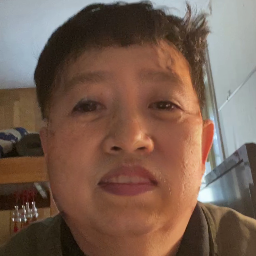
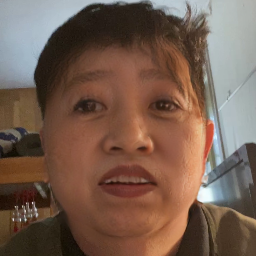
0.46：换脸网整条换到 hyperswap_1c_256——同一张计算图换一份权重
速度一分没变（结构逐格相同：673 节点／295 initializer／算子直方图／形状指纹全等，
只有权重指纹不同；同进程背靠背交替 20 次实测 1c÷1a＝0.974，落在本机负载噪声里）。
换来的是画质：PC 八帧 ↔源 0.732→0.794（已经高过当年 inswapper_128 的 0.779，而算力只有它一半），
高频持平 0.839↔0.836；肉眼那一关是表情——原片张嘴，1c 露牙，1a 一路抿嘴。

1a 与 1c 字节数完全相同（402742682），只比长度分不开这两份，下载那步改钉 sha256。
PC 标答（ci/fsx_fixtures）整份按 1c 重出——不重出就是拿 1c 的输出去比 1a 的答案，第①层必然 FAIL。
RECIPE 随网名变⇒手机上「点核对只比版本」那条会判盘上那份是旧配方，重下一次 ~566 MB 归档。

diff --git a/app/SourcesSwap/SwapClip.swift b/app/SourcesSwap/SwapClip.swift
@@ -171,7 +171,7 @@ final class SwapSource {
 /// → 逐帧 对齐→256 前向→贴回（一帧里有几张目标脸就换几张）→ 编码器写新片。
 /// 每一步的单价、身份余弦、足迹水位全部进流水；跑完存相册，成功才删沙盒那份。
 ///
-/// 这一条链路只有两张网（脸向量网＋hyperswap_1a_256），
+/// 这一条链路只有两张网（脸向量网＋hyperswap_1c_256），
 /// 逐帧的钱全在那一张 30 GMAC 的换脸网上，其余每一步都是几十字节的算术；
 /// 多人换脸加的钱是多张脸各一次前向，检测仍是一帧一次（Vision 本来就是一次出所有脸）。
 enum SwapClip {
@@ -1005,7 +1005,7 @@ enum SwapClip {
         }
         say("足迹 \(mem0)→\(SwapFacts.footprintMB()) MB，本次峰值 \(memMax) MB")
         if !cosList.isEmpty {
-            say("身份复测 \(cosList.count) 次（PC 参照：hyperswap_1a_256 换后<->源 0.735 上下，inswapper 是 0.779；"
+            say("身份复测 \(cosList.count) 次（PC 参照：hyperswap_1c_256 换后<->源 0.79 上下（八帧中位 0.794），inswapper 是 0.779；"
                 + "换前<->源 ≈0.1~0.3）")
             say("      换后<->换前 那一列不吃存档身份，只答「这张脸动没动」：低＝动过，接近 1＝原样交或本来就是同一个人；这一列 PC 上我没量过")
             for c in cosList.suffix(12) { say("  " + c) }

diff --git a/app/SourcesSwap/SwapStore.swift b/app/SourcesSwap/SwapStore.swift
@@ -8,7 +8,7 @@ import CryptoKit
 /// 版本号＝两张 onnx 的 sha256 再加转换配方那一句（CI 那头算），所以「换模型」和「改程序」这两件事在盘上是分开的：
 /// 程序改完装上去，那一份模型原封不动；只有模型本身（或转换配方）换了，手机上那份才会被换掉。
 ///
-/// 这一版 fsx 那条链路带的两样：fsx_arc.mlpackage／fsx_swap.mlpackage（hyperswap_1a_256）。
+/// 这一版 fsx 那条链路带的两样：fsx_arc.mlpackage／fsx_swap.mlpackage（hyperswap_1c_256）。
 /// 换脸网收的就是归一化后的 512 维向量，不再需要 inswapper 那张 emap 矩阵。
 ///
 /// 发布位：CI 把这些打成两个文件，挂在 channel-swap 这条 release 上：
@@ -41,7 +41,7 @@ enum SwapStore {
     /// 本版链路的口径标记：归档里带一份 chain.txt，内容对得上才算「这一版的模型」。
     /// 两张资源名没变（fsx_swap.mlpackage），旧版装过的那份同名包光看名字分不出来——
     /// 不带这一关，升级后第一次出片会在接口对账那一刻才炸（256 的入参在 128 的包里找不到）。
-    static let chainTag = "hyperswap-1a-256"
+    static let chainTag = "hyperswap-1c-256"
 
     struct Manifest: Decodable {
         struct File: Decodable { let path: String; let size: Int }

diff --git a/app/SourcesSwap/FsxEngine.swift b/app/SourcesSwap/FsxEngine.swift
@@ -3,7 +3,7 @@ import CoreML
 import CoreVideo
 import Accelerate
 
-/// fsx 那条链路的两张网：脸向量网（112 出 512 维身份证）＋ hyperswap_1a_256（256 进 256 出）。
+/// fsx 那条链路的两张网：脸向量网（112 出 512 维身份证）＋ hyperswap_1c_256（256 进 256 出）。
 /// 换脸网这一格收的就是那张归一化过的 512 维向量本身，不再乘 latent 矩阵——
 /// inswapper 那套 emap 是它自己图上的安排；这一张网没有那一步，喂 emap 出来的东西它不认识。
 enum FsxNets {

diff --git a/ci/fsx_pack.py b/ci/fsx_pack.py
@@ -1,5 +1,5 @@
 # -*- coding: utf-8 -*-
-"""把两张 onnx（w600k_r50＋hyperswap_1a_256）转成手机上的两份 mlpackage，跟 PC 的标准答案对完账，
+"""把两张 onnx（w600k_r50＋hyperswap_1c_256）转成手机上的两份 mlpackage，跟 PC 的标准答案对完账，
 再打成 models.bin＋models.json，外加一份 chain.txt 口径标记。
 
 发布配方：换脸网 fp16、身份证 fp32。换脸网这一格一帧跑一次，fp16 在真 fixture 上与 fp32 同一份答案
@@ -40,15 +40,16 @@ except Exception:
     pass
 
 # 字节数钉死：换源就换字节，换字节就换画面（这两份和 PC 上验通的那两份逐字节同一个）
+# 注意 hyperswap 的 1a 与 1c 字节数完全相同（402742682），光比长度分不开这两份——sha 在 workflow 那一步钉
 WANT_BYTES = {
     'w600k_r50.onnx': 174383860,
-    'hyperswap_1a_256.onnx': 402742682,
+    'hyperswap_1c_256.onnx': 402742682,
 }
-RECIPE = b'fsx-models|hyperswap_1a_256|fp16|mlpackage|v2'
+RECIPE = b'fsx-models|hyperswap_1c_256|fp16|mlpackage|v2'
 ARC_PKG = 'fsx_arc'
 SWAP_PKG = 'fsx_swap'
 # 手机上 haveAll() 认的口径标记：资源名没变（fsx_swap.mlpackage），旧版同名包光看名字分不出来
-CHAIN_TAG = 'hyperswap-1a-256'
+CHAIN_TAG = 'hyperswap-1c-256'
 SIDE = 256
 # 这两条是「还换不换得对那个人」的底线：PC↔CoreML 实测 fp32 是 cos=1.000000／PSNR≈53，
 # fp16 换脸包同样是 PSNR 52.71 dB；闸门放在远低于实测、远高于坏值的地方。
@@ -317,7 +318,7 @@ def pack_archive(base, files_order, out_bin, out_json, version):
 
 def main():
     ap = argparse.ArgumentParser()
-    ap.add_argument('--onnx-dir', required=True, help='放 w600k_r50.onnx／hyperswap_1a_256.onnx 的目录')
+    ap.add_argument('--onnx-dir', required=True, help='放 w600k_r50.onnx／hyperswap_1c_256.onnx 的目录')
     ap.add_argument('--fixtures', required=True, help='ci/fsx_fixtures：PC 出的标准答案')
     ap.add_argument('--out-root', default='app/SwapModel',
                     help='两份 mlpackage＋chain.txt＋models.bin/json 落这里（不能落进 SourcesSwap，xcodegen 会把 mlpackage 当编译输入）')
@@ -325,7 +326,7 @@ def main():
     a = ap.parse_args()
 
     arc_onnx = os.path.join(a.onnx_dir, 'w600k_r50.onnx')
-    sw_onnx = os.path.join(a.onnx_dir, 'hyperswap_1a_256.onnx')
+    sw_onnx = os.path.join(a.onnx_dir, 'hyperswap_1c_256.onnx')
     os.makedirs(a.out_root, exist_ok=True)
     logfile = os.path.join(a.out_root, 'fsx_pack.log')
     for p in (arc_onnx, sw_onnx):
